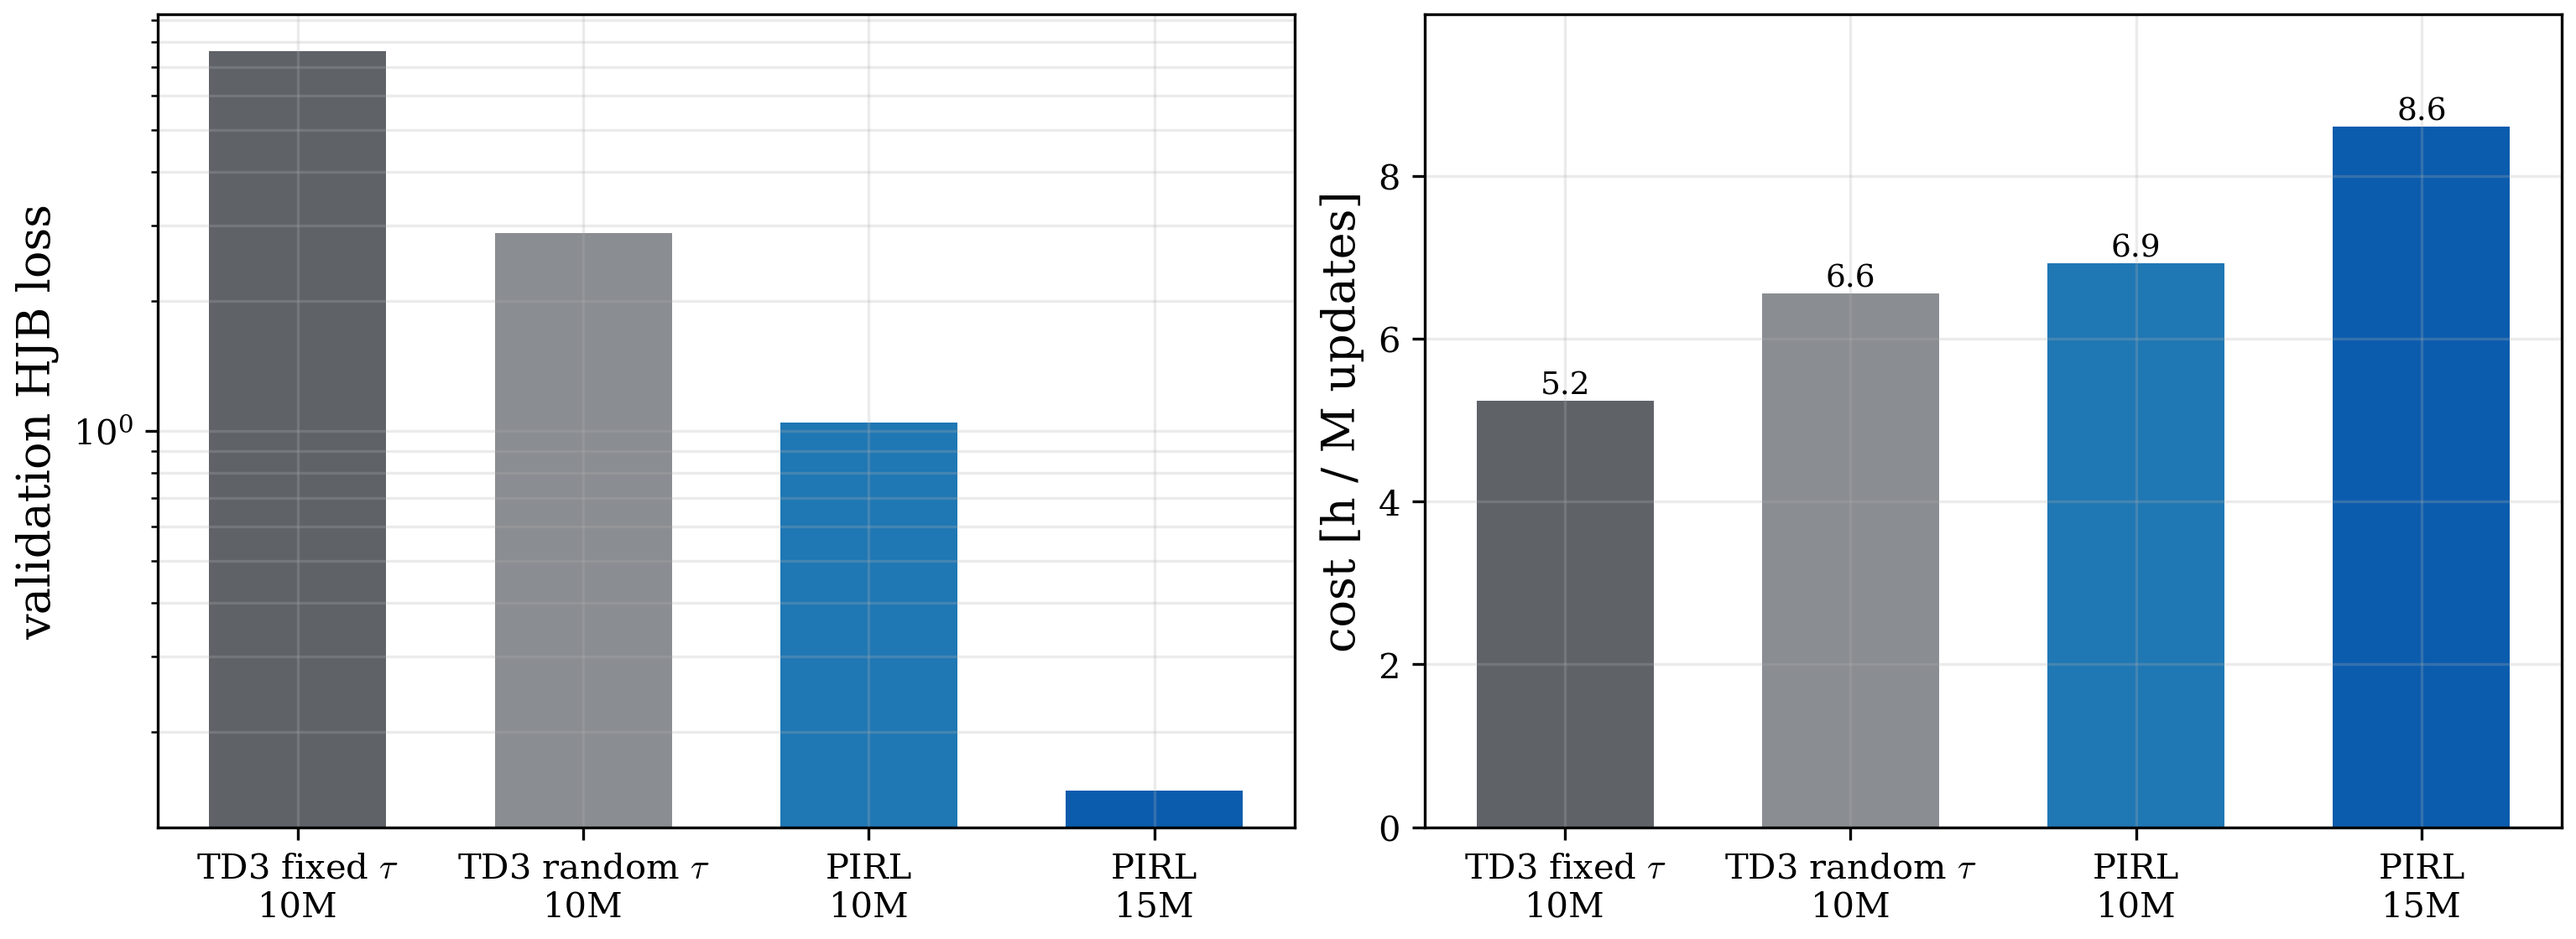
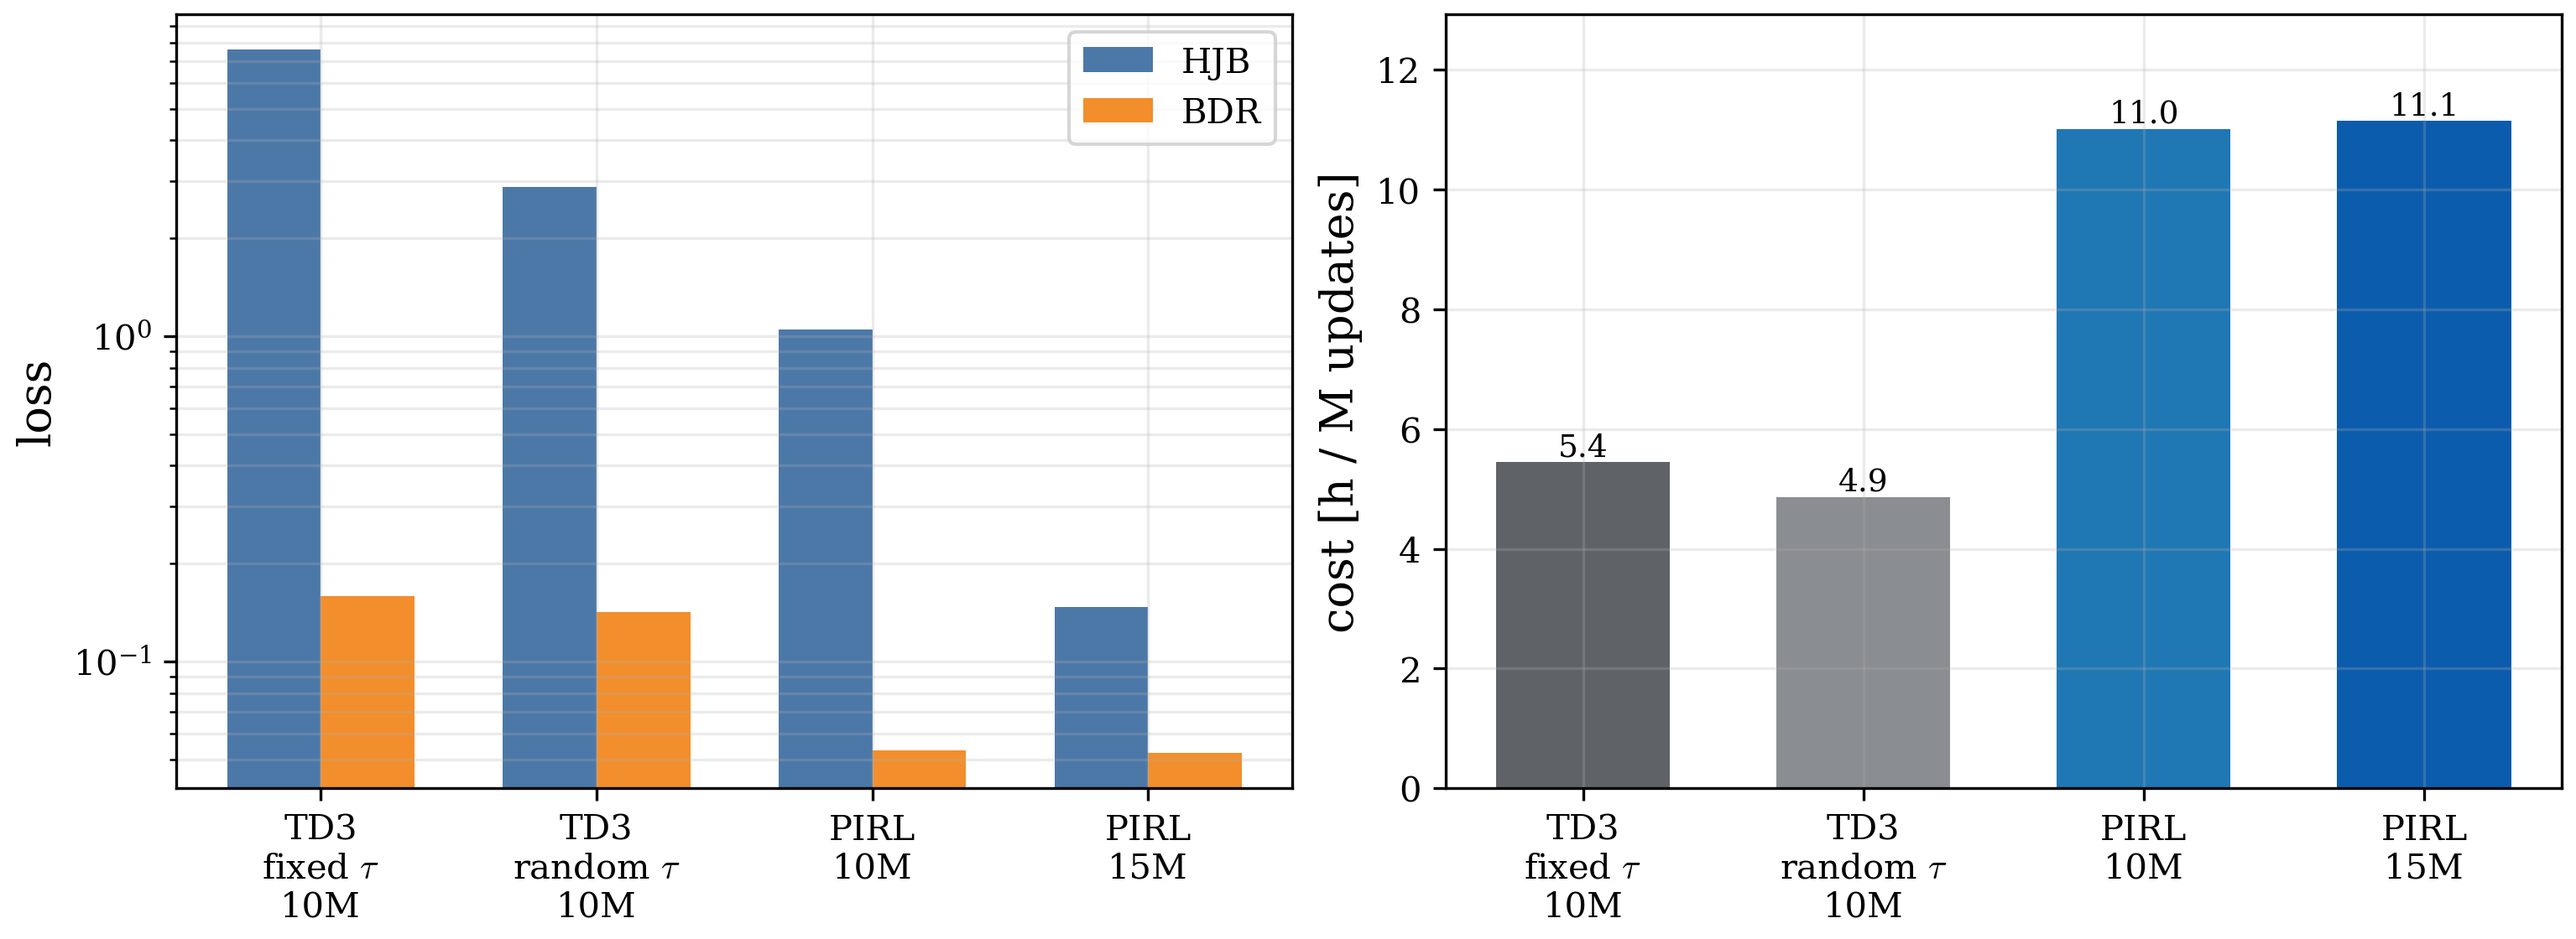
update figures

diff --git a/ProbReachPIRL/plot_drift_hjb_runtime_summary.py b/ProbReachPIRL/plot_drift_hjb_runtime_summary.py
@@ -114,8 +114,8 @@ PIRL_10M_TO_15M = [
 ]
 
 METHODS = [
-    ("td3_fixed_10M", r"TD3 fixed $\tau$ 10M", r"TD3 fixed $\tau$" + "\n10M", TD3_FIXED_10M),
-    ("td3_random_10M", r"TD3 random $\tau$ 10M", r"TD3 random $\tau$" + "\n10M", TD3_RANDOM_10M),
+    ("td3_fixed_10M", r"TD3 fixed $\tau$ 10M", "TD3\n" + r"fixed $\tau$" + "\n10M", TD3_FIXED_10M),
+    ("td3_random_10M", r"TD3 random $\tau$ 10M", "TD3\n" + r"random $\tau$" + "\n10M", TD3_RANDOM_10M),
     ("pirl_10M", "PIRL 10M", "PIRL\n10M", PIRL_5M_PRETRAIN + PIRL_5M_TO_10M),
     ("pirl_15M", "PIRL 15M", "PIRL\n15M", PIRL_5M_PRETRAIN + PIRL_5M_TO_10M + PIRL_10M_TO_15M),
 ]
@@ -152,6 +152,13 @@ ERROR_ANALYSIS_METHOD = {
     "td3_random_10M": "TD3 random tau 10M",
     "pirl_10M": "PIRL 10M",
     "pirl_15M": "PIRL mixed 15M",
+}
+
+BENCHMARK_METHOD = {
+    "td3_fixed_10M": "td3_fixed",
+    "td3_random_10M": "td3_random",
+    "pirl_10M": "pirl_transition",
+    "pirl_15M": "pirl_refinement",
 }
 
 COLORS = {
@@ -217,33 +224,63 @@ def summarize_event_runs(event_runs: list[EventRun] | tuple[EventRun, ...]) -> d
     }
 
 
-def read_validation_hjb_loss(path: Path) -> dict[str, float]:
+def read_validation_losses(path: Path) -> dict[str, dict[str, float]]:
     with open(path, newline="") as f:
-        rows = {row["method"]: float(row["hjb_residual_mean"]) for row in csv.DictReader(f)}
+        rows = {
+            row["method"]: {
+                "hjb_loss": float(row["hjb_residual_mean"]),
+                "bdr_loss": float(row["boundary_value_mae"]),
+            }
+            for row in csv.DictReader(f)
+        }
     return rows
 
 
-def build_summary(error_csv: Path) -> list[dict[str, float | str]]:
-    validation_loss = read_validation_hjb_loss(error_csv)
+def read_compute_benchmark(path: Path) -> dict[str, dict[str, float]]:
+    if not path.exists():
+        return {}
+    rows = {}
+    with open(path, newline="") as f:
+        for row in csv.DictReader(f):
+            rows[row["method"]] = {
+                "updates_per_hour_million": float(row["median_million_updates_per_hour"]),
+                "hours_per_million_updates": float(row["median_hours_per_million_updates"]),
+                "sec_per_1k_updates": float(row["median_hours_per_million_updates"]) * 3.6,
+            }
+    return rows
+
+
+def build_summary(error_csv: Path, benchmark_csv: Path) -> list[dict[str, float | str]]:
+    validation_losses = read_validation_losses(error_csv)
+    benchmark_rows = read_compute_benchmark(benchmark_csv)
     rows = []
     for key, label, tick_label, event_runs in METHODS:
         event_summary = summarize_event_runs(event_runs)
+        benchmark = benchmark_rows.get(BENCHMARK_METHOD[key])
+        if benchmark is not None:
+            event_summary = {**event_summary, **benchmark}
+        losses = validation_losses[ERROR_ANALYSIS_METHOD[key]]
         rows.append(
             {
                 "method": key,
                 "plot_label": label,
                 "tick_label": tick_label,
-                "validation_hjb_loss": validation_loss[ERROR_ANALYSIS_METHOD[key]],
+                "hjb_loss": losses["hjb_loss"],
+                "bdr_loss": losses["bdr_loss"],
                 **event_summary,
             }
         )
     return rows
 
 
-def build_speed_summary() -> list[dict[str, float | str]]:
+def build_speed_summary(benchmark_csv: Path) -> list[dict[str, float | str]]:
+    benchmark_rows = read_compute_benchmark(benchmark_csv)
     rows = []
     for group in SPEED_GROUPS:
         event_summary = summarize_event_runs(group.event_runs)
+        benchmark = benchmark_rows.get(group.key)
+        if benchmark is not None:
+            event_summary = {**event_summary, **benchmark}
         rows.append(
             {
                 "method": group.key,
@@ -262,24 +299,28 @@ def write_summary(path: Path, rows: list[dict[str, float | str]]) -> None:
         writer.writerows(rows)
 
 
-def plot_summary(rows: list[dict[str, float | str]], out_dir: Path, save_pdf: bool) -> None:
+def draw_loss_panel(ax, rows: list[dict[str, float | str]]) -> None:
     x = np.arange(len(rows))
     labels = [str(row["tick_label"]) for row in rows]
-    colors = [COLORS[str(row["method"])] for row in rows]
+    width = 0.34
 
-    fig, axes = plt.subplots(1, 2, figsize=(10.2, 3.7), constrained_layout=True)
-
-    ax = axes[0]
-    hjb = [float(row["validation_hjb_loss"]) for row in rows]
-    ax.bar(x, hjb, color=colors, width=0.62)
+    hjb = [float(row["hjb_loss"]) for row in rows]
+    bdr = [float(row["bdr_loss"]) for row in rows]
+    ax.bar(x - width / 2, hjb, color="#4c78a8", width=width, label="HJB")
+    ax.bar(x + width / 2, bdr, color="#f28e2b", width=width, label="BDR")
     ax.set_yscale("log")
-    ax.set_ylabel("validation HJB loss", fontsize=13)
+    ax.set_ylabel("loss", fontsize=13)
     ax.set_xticks(x)
     ax.set_xticklabels(labels, fontsize=10)
     ax.tick_params(axis="y", labelsize=10)
     ax.grid(True, axis="y", which="both", alpha=0.25)
+    ax.legend(frameon=True, fontsize=10, loc="upper right")
 
-    ax = axes[1]
+
+def draw_compute_cost_panel(ax, rows: list[dict[str, float | str]]) -> None:
+    x = np.arange(len(rows))
+    labels = [str(row["tick_label"]) for row in rows]
+    colors = [COLORS[str(row["method"])] for row in rows]
     hours_per_million = [float(row["hours_per_million_updates"]) for row in rows]
     bars = ax.bar(x, hours_per_million, color=colors, width=0.62)
     ax.set_ylabel("cost [h / M updates]", fontsize=13)
@@ -298,11 +339,28 @@ def plot_summary(rows: list[dict[str, float | str]], out_dir: Path, save_pdf: bo
             fontsize=9,
         )
 
+
+def plot_summary(rows: list[dict[str, float | str]], out_dir: Path, save_pdf: bool) -> None:
+    fig, axes = plt.subplots(1, 2, figsize=(10.2, 3.7), constrained_layout=True)
+    draw_loss_panel(axes[0], rows)
+    draw_compute_cost_panel(axes[1], rows)
+
     for ext in ["png"] + (["pdf"] if save_pdf else []):
-        fig.savefig(out_dir / f"validation_hjb_vs_runtime.{ext}", dpi=300, bbox_inches="tight", pad_inches=0.06)
         fig.savefig(out_dir / f"validation_hjb_vs_compute_cost.{ext}", dpi=300, bbox_inches="tight", pad_inches=0.06)
     if not backend_supports_show():
         plt.close(fig)
+
+    panel_specs = [
+        ("loss_panel", draw_loss_panel),
+        ("compute_cost_panel", draw_compute_cost_panel),
+    ]
+    for stem, draw in panel_specs:
+        panel_fig, panel_ax = plt.subplots(figsize=(4.3, 4.3), constrained_layout=True)
+        draw(panel_ax, rows)
+        for ext in ["png"] + (["pdf"] if save_pdf else []):
+            panel_fig.savefig(out_dir / f"{stem}.{ext}", dpi=300, bbox_inches="tight", pad_inches=0.06)
+        if not backend_supports_show():
+            plt.close(panel_fig)
 
 
 def plot_speed_summary(rows: list[dict[str, float | str]], out_dir: Path, save_pdf: bool) -> None:
@@ -346,6 +404,12 @@ def main() -> None:
     parser = argparse.ArgumentParser()
     parser.add_argument("--out_dir", default="plot/drift_hjb_runtime_summary")
     parser.add_argument("--error_csv", default="plot/drift_error_analysis/pirl_safety_story_summary.csv")
+    parser.add_argument(
+        "--benchmark_csv",
+        default="plot/drift_hjb_runtime_summary/compute_speed_benchmark_5k_r2.csv",
+        help="Independent compute-speed benchmark CSV. Falls back to TensorBoard wall time if missing.",
+    )
+    parser.add_argument("--plot_speed_summary", action="store_true")
     parser.add_argument("--save_pdf", action="store_true")
     args = parser.parse_args()
 
@@ -353,18 +417,20 @@ def main() -> None:
     out_dir.mkdir(parents=True, exist_ok=True)
     set_paper_style()
 
-    rows = build_summary(Path(args.error_csv))
-    speed_rows = build_speed_summary()
+    rows = build_summary(Path(args.error_csv), Path(args.benchmark_csv))
+    speed_rows = build_speed_summary(Path(args.benchmark_csv))
     write_summary(out_dir / "validation_hjb_runtime_summary.csv", rows)
     write_summary(out_dir / "compute_speed_summary.csv", speed_rows)
     plot_summary(rows, out_dir, args.save_pdf)
-    plot_speed_summary(speed_rows, out_dir, args.save_pdf)
+    if args.plot_speed_summary:
+        plot_speed_summary(speed_rows, out_dir, args.save_pdf)
 
     print("--------------------------------------------")
     print(f"out_dir: {out_dir}")
     for row in rows:
         print(
-            f"{row['method']}: validation HJB={row['validation_hjb_loss']:.3e}, "
+            f"{row['method']}: HJB={row['hjb_loss']:.3e}, "
+            f"BDR={row['bdr_loss']:.3e}, "
             f"wall-clock={row['wall_clock_hours']:.2f} h, "
             f"compute cost={row['hours_per_million_updates']:.2f} h/M updates"
         )
